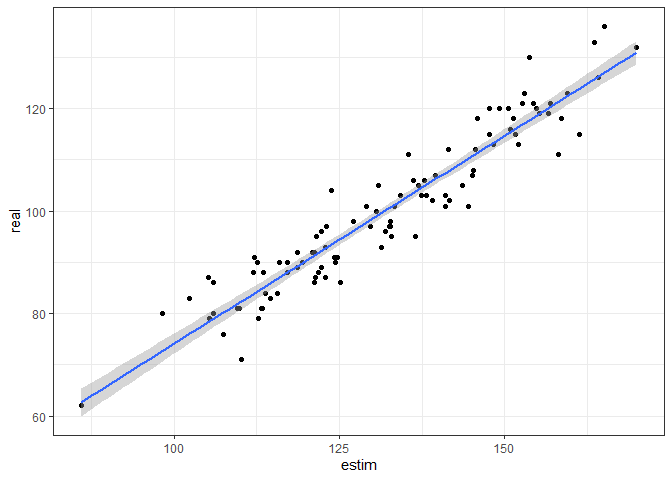
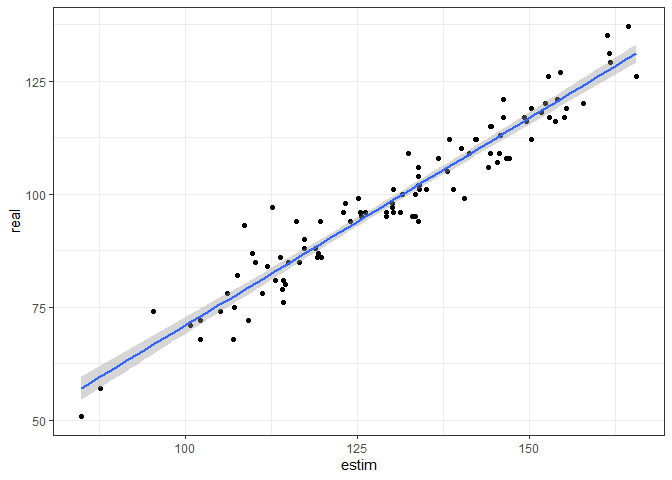
maj 5

diff --git a/5_variance_and_selection.md b/5_variance_and_selection.md
@@ -329,7 +329,7 @@ model <- "model{
 
   # asymptote parameter  
   
-    asig[ii] ~ dnorm(mu_asig[ii], tau_res_asig)T(0.5,1)
+    asig[ii] ~ dnorm(mu_asig[ii], tau_res_asig)T(0.1,1)
     
     mu_asig[ii] <- mean_asymp + random_asig_an[an[ii]]
     
@@ -448,7 +448,10 @@ Run 48 models with differents sets of simulated data:
 
 ### Phenology
 
-- Only high variances in laying dates seem to affect the estimation
+- high variances in laying dates seem to affect the estimation of
+  phenology
+- Strong selection on clutch size affect the estimation of phenology
+- Mean number of eggs per clutch does not affect the estimation of
   phenology
 
 ``` r
@@ -483,7 +486,7 @@ data_f%>%
 
 ### Productivity
 
-- Selection does not affect estimation of productivity
+- Strong selection affect productivity estimates
 - Productivity is harder to assess when birds lay fewer eggs and when
   there is lower variance in laying date
 
